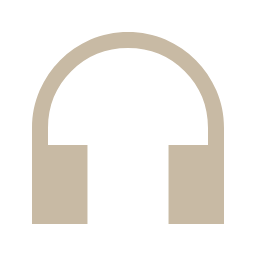
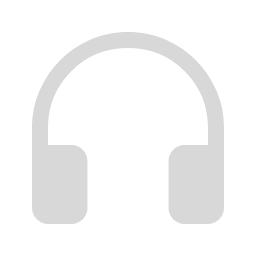
aaaaaaa

Changed region(s): [[0.125, 0.125, 0.875, 0.875]]

diff --git a/home/som/waybar/style.css b/home/som/waybar/style.css
@@ -3,11 +3,11 @@
   font-family: Poppins;
   font-size: 16px;
   font-weight: 600;
-  color: #c8baa4;
+  color: #d8d8d8;
 }
 
 window#waybar {
-  background-color: #252221;
+  background-color: #0f0f0f;
 }
 
 #window {
@@ -15,7 +15,7 @@ window#waybar {
 }
 
 #window.appid label {
-  color: #8a8379;
+  color: #535353;
   padding-top: 5px;
 }
 
@@ -25,7 +25,7 @@ window#waybar {
 }
 
 #workspaces {
-  background-color: #413c3a;
+  background-color: #222222;
   border-radius: 999px;
   margin: 7px;
 }
@@ -35,15 +35,15 @@ window#waybar {
 }
 
 #workspaces button.focused label {
-  color: #252221;
-  background-color: #c8baa4;
+  color: #0f0f0f;
+  background-color: #d8d8d8;
   margin: 8px;
   min-width: 22px;
   border-radius: 999px;
 }
 
 #image.network {
-  background-color: #413c3a;
+  background-color: #222222;
   margin: 7px 0 7px 0;
   padding-left: 15px;
   padding-right: 10px;
@@ -52,7 +52,7 @@ window#waybar {
 }
 
 #network {
-  background-color: #413c3a;
+  background-color: #222222;
   margin: 7px 0 7px 0;
   padding-right: 15px;
   border-top-right-radius: 999px;
@@ -60,7 +60,7 @@ window#waybar {
 }
 
 #image.alsa {
-  background-color: #413c3a;
+  background-color: #222222;
   margin: 7px 0 7px 0;
   padding-left: 15px;
   padding-right: 10px;
@@ -69,7 +69,7 @@ window#waybar {
 }
 
 #custom-alsa {
-  background-color: #413c3a;
+  background-color: #222222;
   margin: 7px 0 7px 0;
   padding-right: 15px;
   border-top-right-radius: 999px;
@@ -77,7 +77,7 @@ window#waybar {
 }
 
 #clock {
-  background-color: #413c3a;
+  background-color: #222222;
   margin: 7px 7px 7px 0;
   padding-left: 15px;
   padding-right: 15px;
